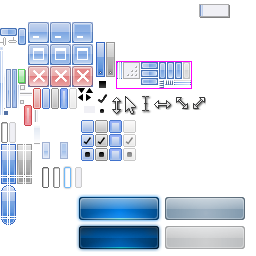
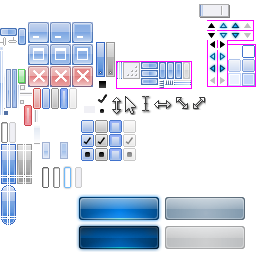
misc

Changed region(s): [[0.7812, 0.0312, 1.0, 0.3438], [0.3125, 0.3438, 0.375, 0.4062]]

diff --git a/api/gui.cpp b/api/gui.cpp
@@ -24,6 +24,8 @@
 // TODO Minor menu[bar] border adjustments; menu icons.
 // TODO Keyboard controls.
 // TODO Send repeat messages for held left press? Scrollbar buttons, scrollbar nudges, scroll-selections, etc.
+// TODO Minimum scrollbar grip size.
+// TODO Clipping.
 
 struct UIImage {
 	OSRectangle region;
@@ -116,20 +118,39 @@ static UIImage scrollbarResizePad               = {{123, 140, 62, 79}, {123, 123
 static UIImage scrollbarNotchesHorizontal       = {{159, 164, 80, 88}, {159, 159, 80, 80}};
 static UIImage scrollbarNotchesVertical         = {{165, 173, 80, 85}, {165, 165, 80, 80}};
 
+#if 0
 static UIImage smallArrowUp		= {{86, 93, 88, 93}, {86, 86, 88, 88}};
 static UIImage smallArrowDown		= {{78, 85, 88, 93}, {78, 78, 88, 88}};
 static UIImage smallArrowLeft		= {{86, 91, 94, 101}, {86, 86, 94, 94}};
 static UIImage smallArrowRight		= {{78, 83, 94, 101}, {78, 78, 94, 94}};
+#endif
+
+static UIImage smallArrowUpNormal      = {{206, 217, 21, 30}, {206, 206, 21, 21}};
+static UIImage smallArrowUpHover       = {{218, 229, 21, 30}, {218, 218, 21, 21}};
+static UIImage smallArrowUpPressed     = {{230, 241, 21, 30}, {230, 230, 21, 21}};
+static UIImage smallArrowUpDisabled    = {{242, 253, 21, 30}, {242, 242, 21, 21}};
+static UIImage smallArrowDownNormal    = {{206, 217, 31, 40}, {206, 206, 31, 31}};
+static UIImage smallArrowDownHover     = {{218, 229, 31, 40}, {218, 218, 31, 31}};
+static UIImage smallArrowDownPressed   = {{230, 241, 31, 40}, {230, 230, 31, 31}};
+static UIImage smallArrowDownDisabled  = {{242, 253, 31, 40}, {242, 242, 31, 31}};
+static UIImage smallArrowLeftNormal    = {{208, 217, 39, 50}, {208, 208, 39, 39}};
+static UIImage smallArrowLeftHover     = {{208, 217, 51, 62}, {208, 208, 51, 51}};
+static UIImage smallArrowLeftPressed   = {{208, 217, 63, 74}, {208, 208, 63, 63}};
+static UIImage smallArrowLeftDisabled  = {{208, 217, 75, 86}, {208, 208, 75, 75}};
+static UIImage smallArrowRightNormal   = {{218, 227, 39, 50}, {218, 218, 39, 39}};
+static UIImage smallArrowRightHover    = {{218, 227, 51, 62}, {218, 218, 51, 51}};
+static UIImage smallArrowRightPressed  = {{218, 227, 63, 74}, {218, 218, 63, 63}};
+static UIImage smallArrowRightDisabled = {{218, 227, 75, 86}, {218, 218, 75, 75}};
 
 static UIImage lineHorizontal		= {{20, 32, 92, 96}, {21, 22, 92, 92}};
 static UIImage *lineHorizontalBackgrounds[] = { &lineHorizontal, &lineHorizontal, &lineHorizontal, &lineHorizontal, };
 static UIImage lineVertical		= {{34, 38, 110, 122}, {34, 34, 111, 112}};
 static UIImage *lineVerticalBackgrounds[] = { &lineVertical, &lineVertical, &lineVertical, &lineVertical, };
 
-struct UIImage *smallArrowUpIcons[] = { &smallArrowUp, &smallArrowUp, &smallArrowUp, &smallArrowUp, };
-struct UIImage *smallArrowDownIcons[] = { &smallArrowDown, &smallArrowDown, &smallArrowDown, &smallArrowDown, };
-struct UIImage *smallArrowLeftIcons[] = { &smallArrowLeft, &smallArrowLeft, &smallArrowLeft, &smallArrowLeft, };
-struct UIImage *smallArrowRightIcons[] = { &smallArrowRight, &smallArrowRight, &smallArrowRight, &smallArrowRight, };
+struct UIImage *smallArrowUpIcons[] = { &smallArrowUpNormal, &smallArrowUpDisabled, &smallArrowUpHover, &smallArrowUpPressed, };
+struct UIImage *smallArrowDownIcons[] = { &smallArrowDownNormal, &smallArrowDownDisabled, &smallArrowDownHover, &smallArrowDownPressed, };
+struct UIImage *smallArrowLeftIcons[] = { &smallArrowLeftNormal, &smallArrowLeftDisabled, &smallArrowLeftHover, &smallArrowLeftPressed, };
+struct UIImage *smallArrowRightIcons[] = { &smallArrowRightNormal, &smallArrowRightDisabled, &smallArrowRightHover, &smallArrowRightPressed, };
 
 struct UIImage *scrollbarTrackVerticalBackgrounds[] = { &scrollbarTrackVerticalEnabled, &scrollbarTrackVerticalDisabled, &scrollbarTrackVerticalEnabled, &scrollbarTrackVerticalPressed, };
 struct UIImage *scrollbarTrackHorizontalBackgrounds[] = { &scrollbarTrackHorizontalEnabled, &scrollbarTrackHorizontalDisabled, &scrollbarTrackHorizontalEnabled, &scrollbarTrackHorizontalPressed, };
@@ -226,6 +247,7 @@ struct GUIObject : APIObject {
 	uint16_t descendentInvalidationFlags;
 	uint16_t layout;
 	uint16_t preferredWidth, preferredHeight;
+	uint16_t minimumWidth, minimumHeight;
 };
 
 static inline void SetParentDescendentInvalidationFlags(GUIObject *object, uint16_t mask) {
@@ -283,7 +305,6 @@ struct Control : GUIObject {
 
 	LinkedItem<Control> timerControlItem;
 
-	uint16_t minimumWidth, minimumHeight; // Used by OSSetText.
 	uint8_t timerHz, timerStep;
 	uint8_t animationStep, finalAnimationStep;
 	uint8_t from1, from2, from3, from4;
@@ -315,6 +336,7 @@ struct Grid : GUIObject {
 	unsigned columns, rows;
 	OSObject *objects;
 	int *widths, *heights;
+	int *minimumWidths, *minimumHeights;
 	uint8_t relayout : 1, repaint : 1;
 	unsigned flags;
 	int borderSize, gapSize;
@@ -534,11 +556,13 @@ static OSCallbackResponse ProcessControlMessage(OSObject _object, OSMessage *mes
 		} break;
 
 		case OS_MESSAGE_MEASURE: {
-			message->measure.width = control->preferredWidth;
-			message->measure.height = control->preferredHeight;
-
-			if (control->layout & OS_CELL_H_PUSH) message->measure.width = DIMENSION_PUSH;
-			if (control->layout & OS_CELL_V_PUSH) message->measure.height = DIMENSION_PUSH;
+			if (control->layout & OS_CELL_H_PUSH) message->measure.preferredWidth = DIMENSION_PUSH;
+			else message->measure.preferredWidth = control->preferredWidth;
+			if (control->layout & OS_CELL_V_PUSH) message->measure.preferredHeight = DIMENSION_PUSH;
+			else message->measure.preferredHeight = control->preferredHeight;
+			
+			message->measure.minimumWidth = control->minimumWidth;
+			message->measure.minimumHeight = control->minimumHeight;
 		} break;
 
 		case OS_MESSAGE_PAINT: {
@@ -863,6 +887,8 @@ static OSObject CreateWindowResizeHandle(UIImage **images, unsigned direction) {
 	control->backgrounds = images;
 	control->preferredWidth = images[0]->region.right - images[0]->region.left;
 	control->preferredHeight = images[0]->region.bottom - images[0]->region.top;
+	control->minimumWidth = images[0]->region.right - images[0]->region.left;
+	control->minimumHeight = images[0]->region.bottom - images[0]->region.top;
 	control->direction = direction;
 	control->noAnimations = true;
 	control->noDisabledTextColorChange = true;
@@ -1665,8 +1691,12 @@ static OSCallbackResponse ProcessGridMessage(OSObject _object, OSMessage *messag
 
 				OSZeroMemory(grid->widths, sizeof(int) * grid->columns);
 				OSZeroMemory(grid->heights, sizeof(int) * grid->rows);
+				OSZeroMemory(grid->minimumWidths, sizeof(int) * grid->columns);
+				OSZeroMemory(grid->minimumHeights, sizeof(int) * grid->rows);
 
 				int pushH = 0, pushV = 0;
+
+				// OSPrint("->Laying out grid %x (%d by %d)\n", grid, grid->columns, grid->rows);
 
 				for (uintptr_t i = 0; i < grid->columns; i++) {
 					for (uintptr_t j = 0; j < grid->rows; j++) {
@@ -1674,28 +1704,62 @@ static OSCallbackResponse ProcessGridMessage(OSObject _object, OSMessage *messag
 						message->type = OS_MESSAGE_MEASURE;
 						if (OSSendMessage(*object, message) == OS_CALLBACK_NOT_HANDLED) continue;
 
-						int width = message->measure.width;
-						int height = message->measure.height;
+						int width = message->measure.preferredWidth;
+						int height = message->measure.preferredHeight;
+
+						// OSPrint("Measuring %d, %d: %d, %d, %d, %d\n", i, j, width, height, message->measure.minimumWidth, message->measure.minimumHeight);
 
 						if (width == DIMENSION_PUSH) { bool a = grid->widths[i] == DIMENSION_PUSH; grid->widths[i] = DIMENSION_PUSH; if (!a) pushH++; }
 						else if (grid->widths[i] < width && grid->widths[i] != DIMENSION_PUSH) grid->widths[i] = width;
 						if (height == DIMENSION_PUSH) { bool a = grid->heights[j] == DIMENSION_PUSH; grid->heights[j] = DIMENSION_PUSH; if (!a) pushV++; }
 						else if (grid->heights[j] < height && grid->heights[j] != DIMENSION_PUSH) grid->heights[j] = height;
+
+						if (grid->minimumWidths[i] < message->measure.minimumWidth) grid->minimumWidths[i] = message->measure.minimumWidth;
+						if (grid->minimumHeights[j] < message->measure.minimumHeight) grid->minimumHeights[j] = message->measure.minimumHeight;
 					}
 				}
+
+#if 0
+				OSPrint("->Results for grid %x (%d by %d)\n", grid, grid->columns, grid->rows);
+
+				for (uintptr_t i = 0; i < grid->columns; i++) {
+					OSPrint("Column %d is pref: %dpx, min: %dpx\n", i, grid->widths[i], grid->minimumWidths[i]);
+				}
+				for (uintptr_t j = 0; j < grid->rows; j++) {
+					OSPrint("Row %d is pref: %dpx, min: %dpx\n", j, grid->heights[j], grid->minimumHeights[j]);
+				}
+#endif
 
 				if (pushH) {
 					int usedWidth = grid->borderSize * 2 + grid->gapSize * (grid->columns - 1); 
 					for (uintptr_t i = 0; i < grid->columns; i++) if (grid->widths[i] != DIMENSION_PUSH) usedWidth += grid->widths[i];
 					int widthPerPush = (grid->bounds.right - grid->bounds.left - usedWidth) / pushH;
-					for (uintptr_t i = 0; i < grid->columns; i++) if (grid->widths[i] == DIMENSION_PUSH) grid->widths[i] = widthPerPush;
+
+					for (uintptr_t i = 0; i < grid->columns; i++) {
+						if (grid->widths[i] == DIMENSION_PUSH) {
+							if (widthPerPush >= grid->minimumWidths[i]) {
+								grid->widths[i] = widthPerPush;
+							} else {
+								grid->widths[i] = grid->minimumWidths[i];
+							}
+						}
+					}
 				}
 
 				if (pushV) {
 					int usedHeight = grid->borderSize * 2 + grid->gapSize * (grid->rows - 1); 
 					for (uintptr_t j = 0; j < grid->rows; j++) if (grid->heights[j] != DIMENSION_PUSH) usedHeight += grid->heights[j];
 					int heightPerPush = (grid->bounds.bottom - grid->bounds.top - usedHeight) / pushV; 
-					for (uintptr_t j = 0; j < grid->rows; j++) if (grid->heights[j] == DIMENSION_PUSH) grid->heights[j] = heightPerPush;
+
+					for (uintptr_t j = 0; j < grid->rows; j++) {
+						if (grid->heights[j] == DIMENSION_PUSH) {
+							if (heightPerPush >= grid->minimumHeights[j]) {
+								grid->heights[j] = heightPerPush;
+							} else {
+								grid->heights[j] = grid->minimumHeights[j];
+							}
+						}
+					}
 				}
 
 				int posX = grid->bounds.left + grid->borderSize;
@@ -1713,6 +1777,7 @@ static OSCallbackResponse ProcessGridMessage(OSObject _object, OSMessage *messag
 						message->layout.bottom = posY + grid->heights[j];
 						message->layout.force = true;
 
+						// OSPrint("Sending %d->%d, %d->%d to %d,%d\n", message->layout.left, message->layout.right, message->layout.top, message->layout.bottom, i, j);
 						OSSendMessage(*object, message);
 
 						posY += grid->heights[j] + grid->gapSize;
@@ -1742,6 +1807,8 @@ static OSCallbackResponse ProcessGridMessage(OSObject _object, OSMessage *messag
 		case OS_MESSAGE_MEASURE: {
 			OSZeroMemory(grid->widths, sizeof(int) * grid->columns);
 			OSZeroMemory(grid->heights, sizeof(int) * grid->rows);
+			OSZeroMemory(grid->minimumWidths, sizeof(int) * grid->columns);
+			OSZeroMemory(grid->minimumHeights, sizeof(int) * grid->rows);
 
 			bool pushH = false, pushV = false;
 
@@ -1750,24 +1817,35 @@ static OSCallbackResponse ProcessGridMessage(OSObject _object, OSMessage *messag
 					OSObject *object = grid->objects + (j * grid->columns + i);
 					if (OSSendMessage(*object, message) == OS_CALLBACK_NOT_HANDLED) continue;
 
-					int width = message->measure.width;
-					int height = message->measure.height;
+					int width = message->measure.preferredWidth;
+					int height = message->measure.preferredHeight;
+
+					int minimumWidth = message->measure.minimumWidth;
+					int minimumHeight = message->measure.minimumHeight;
 
 					if (width == DIMENSION_PUSH) pushH = true;
 					if (height == DIMENSION_PUSH) pushV = true;
 
 					if (grid->widths[i] < width) grid->widths[i] = width;
 					if (grid->heights[j] < height) grid->heights[j] = height;
+
+					if (grid->minimumWidths[i] < minimumWidth) grid->minimumWidths[i] = minimumWidth;
+					if (grid->minimumHeights[j] < minimumHeight) grid->minimumHeights[j] = minimumHeight;
 				}
 			}
 
 			int width = pushH ? DIMENSION_PUSH : grid->borderSize, height = pushV ? DIMENSION_PUSH : grid->borderSize;
+			int minimumWidth = grid->borderSize, minimumHeight = grid->borderSize;
 
 			if (!pushH) for (uintptr_t i = 0; i < grid->columns; i++) width += grid->widths[i] + (i == grid->columns - 1 ? grid->borderSize : grid->gapSize);
 			if (!pushV) for (uintptr_t j = 0; j < grid->rows; j++) height += grid->heights[j] + (j == grid->rows - 1 ? grid->borderSize : grid->gapSize);
+			for (uintptr_t i = 0; i < grid->columns; i++) minimumWidth += grid->minimumWidths[i] + (i == grid->columns - 1 ? grid->borderSize : grid->gapSize);
+			for (uintptr_t j = 0; j < grid->rows; j++) minimumHeight += grid->minimumHeights[j] + (j == grid->rows - 1 ? grid->borderSize : grid->gapSize);
 
-			grid->preferredWidth = message->measure.width = width;
-			grid->preferredHeight = message->measure.height = height;
+			grid->preferredWidth = message->measure.preferredWidth = width;
+			grid->preferredHeight = message->measure.preferredHeight = height;
+			grid->minimumWidth = message->measure.minimumWidth = minimumWidth;
+			grid->minimumHeight = message->measure.minimumHeight = minimumHeight;
 		} break;
 
 		case OS_MESSAGE_PAINT: {
@@ -1862,7 +1940,7 @@ static OSCallbackResponse ProcessGridMessage(OSObject _object, OSMessage *messag
 }
 
 OSObject OSCreateGrid(unsigned columns, unsigned rows, unsigned flags) {
-	uint8_t *memory = (uint8_t *) OSHeapAllocate(sizeof(Grid) + sizeof(OSObject) * columns * rows + sizeof(int) * (columns + rows), true);
+	uint8_t *memory = (uint8_t *) OSHeapAllocate(sizeof(Grid) + sizeof(OSObject) * columns * rows + 2 * sizeof(int) * (columns + rows), true);
 
 	Grid *grid = (Grid *) memory;
 	grid->type = API_OBJECT_GRID;
@@ -1872,6 +1950,8 @@ OSObject OSCreateGrid(unsigned columns, unsigned rows, unsigned flags) {
 	grid->objects = (OSObject *) (memory + sizeof(Grid));
 	grid->widths = (int *) (memory + sizeof(Grid) + sizeof(OSObject) * columns * rows);
 	grid->heights = (int *) (memory + sizeof(Grid) + sizeof(OSObject) * columns * rows + sizeof(int) * columns);
+	grid->minimumWidths = (int *) (memory + sizeof(Grid) + sizeof(OSObject) * columns * rows + sizeof(int) * columns + sizeof(int) * rows);
+	grid->minimumHeights = (int *) (memory + sizeof(Grid) + sizeof(OSObject) * columns * rows + sizeof(int) * columns + sizeof(int) * rows + sizeof(int) * columns);
 	grid->flags = flags;
 
 	if (flags & OS_CREATE_GRID_NO_BORDER) grid->borderSize = 0; else grid->borderSize = 4;
@@ -2007,8 +2087,10 @@ static OSCallbackResponse ProcessScrollbarMessage(OSObject object, OSMessage *me
 
 	switch (message->type) {
 		case OS_MESSAGE_MEASURE: {
-			message->measure.width = grid->preferredWidth;
-			message->measure.height = grid->preferredHeight;
+			message->measure.preferredWidth = grid->preferredWidth;
+			message->measure.preferredHeight = grid->preferredHeight;
+			message->measure.minimumWidth = grid->minimumWidth;
+			message->measure.minimumHeight = grid->minimumHeight;
 			result = OS_CALLBACK_HANDLED;
 		} break;
 
@@ -2185,6 +2267,8 @@ OSObject OSCreateScrollbar(bool orientation) {
 	scrollbar->objects = (OSObject *) (memory + sizeof(Scrollbar));
 	scrollbar->preferredWidth = !orientation ? DIMENSION_PUSH : SCROLLBAR_SIZE;
 	scrollbar->preferredHeight = !orientation ? SCROLLBAR_SIZE : DIMENSION_PUSH;
+	scrollbar->minimumWidth = !orientation ? SCROLLBAR_SIZE * 2 + 4 : SCROLLBAR_SIZE;
+	scrollbar->minimumHeight = !orientation ? SCROLLBAR_SIZE : SCROLLBAR_SIZE * 2 + 4;
 
 	OSCommand command = {};
 	command.defaultDisabled = true;

diff --git a/api/os.h b/api/os.h
@@ -579,7 +579,8 @@ typedef struct OSMessage {
 		} layout;
 
 		struct {
-			int width, height;
+			int preferredWidth, preferredHeight;
+			int minimumWidth, minimumHeight;
 		} measure;
 
 		struct {
